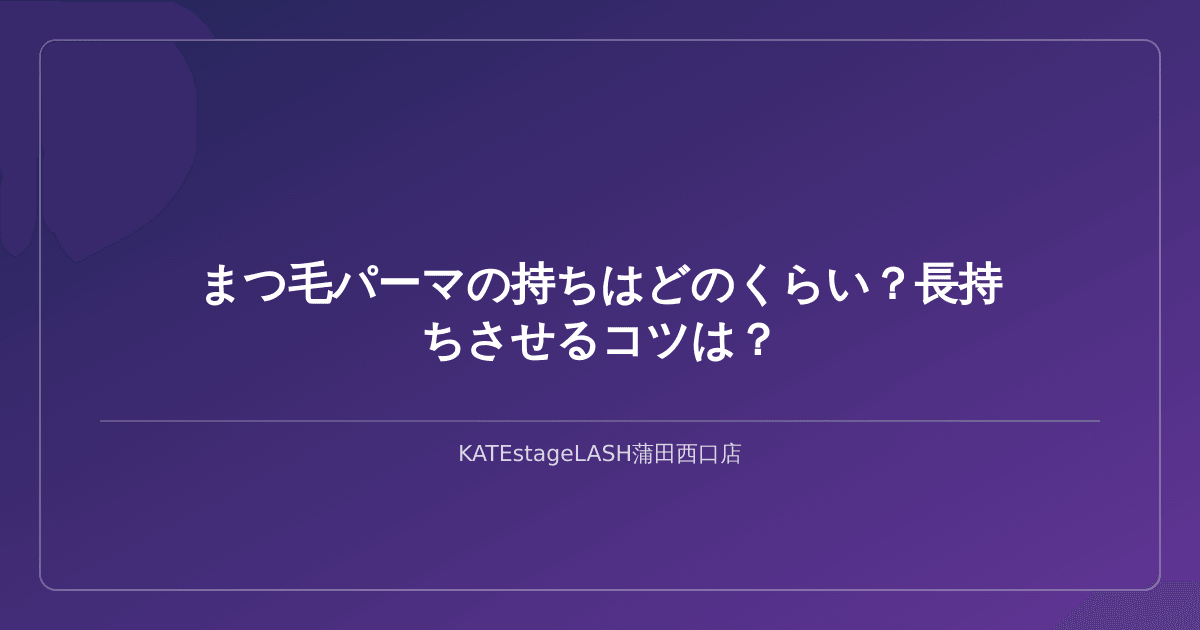
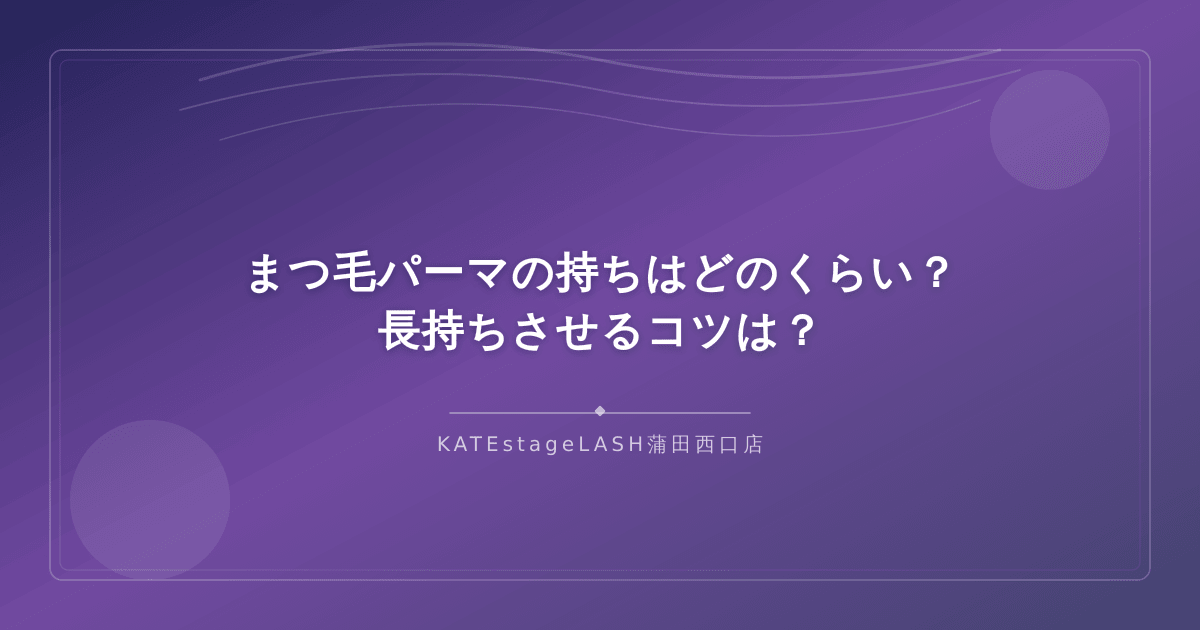
fix: 投稿者をケイトステージラッシュに設定・施術者個人名を削除・画像デザイン改善
- 記事から田中への言及を全て削除（施術者の個人名を出さない）
- E-E-A-T設定をサロン名義に変更
- WPプラグインの投稿者を「ケイトステージラッシュ」ユーザーに自動設定
- 画像デザインをまつ毛・眉毛サロン向けに改善
  - まつ毛をイメージした曲線装飾
  - ダブルフレーム・ダイヤモンド装飾
  - テーマ別装飾パーツ

https://claude.ai/code/session_01UUtUBFTQeE7mQC8JojcE9x

diff --git a/src/image-generator.js b/src/image-generator.js
@@ -6,7 +6,6 @@ const salon = JSON.parse(fs.readFileSync(path.join(__dirname, '..', 'salon.json'
 
 function selectTheme(title) {
   const themes = salon.imageThemes;
-  // Check in priority order: specific topics first, then general
   const themeOrder = ['eyelashPerm', 'eyebrow', 'eyelashCare', 'localArea', 'beautyGeneral'];
   for (const key of themeOrder) {
     const theme = themes[key];
@@ -19,8 +18,7 @@ function selectTheme(title) {
 }
 
 function generateGradientVariation(baseFrom, baseTo, index) {
-  // Create subtle variations for each image
-  const shift = (index * 15) % 40;
+  const shift = (index * 12) % 30;
   const adjustColor = (hex, amount) => {
     const r = Math.min(255, Math.max(0, parseInt(hex.slice(1, 3), 16) + amount));
     const g = Math.min(255, Math.max(0, parseInt(hex.slice(3, 5), 16) + amount));
@@ -28,8 +26,8 @@ function generateGradientVariation(baseFrom, baseTo, index) {
     return `#${r.toString(16).padStart(2, '0')}${g.toString(16).padStart(2, '0')}${b.toString(16).padStart(2, '0')}`;
   };
   return {
-    from: adjustColor(baseFrom, shift - 20),
-    to: adjustColor(baseTo, 20 - shift)
+    from: adjustColor(baseFrom, shift - 15),
+    to: adjustColor(baseTo, 15 - shift)
   };
 }
 
@@ -47,39 +45,107 @@ function wrapText(text, maxCharsPerLine) {
   return lines;
 }
 
+// まつ毛の装飾SVGパーツ
+function getLashDecoration(themeKey) {
+  if (themeKey === 'eyelashPerm' || themeKey === 'eyelashCare') {
+    // まつ毛をイメージした曲線装飾（上部）
+    return `
+    <g opacity="0.15">
+      <path d="M200,80 Q400,20 600,60 Q800,100 1000,50" fill="none" stroke="white" stroke-width="3" stroke-linecap="round"/>
+      <path d="M180,110 Q400,50 600,90 Q800,130 1020,70" fill="none" stroke="white" stroke-width="2" stroke-linecap="round"/>
+      <path d="M220,140 Q420,80 620,120 Q820,160 980,100" fill="none" stroke="white" stroke-width="1.5" stroke-linecap="round"/>
+    </g>
+    <g opacity="0.08">
+      <circle cx="150" cy="500" r="80" fill="white"/>
+      <circle cx="1050" cy="130" r="60" fill="white"/>
+    </g>`;
+  }
+  if (themeKey === 'eyebrow') {
+    // アーチ型の装飾（眉毛をイメージ）
+    return `
+    <g opacity="0.12">
+      <path d="M250,100 Q600,30 950,100" fill="none" stroke="white" stroke-width="4" stroke-linecap="round"/>
+      <path d="M280,130 Q600,65 920,130" fill="none" stroke="white" stroke-width="2.5" stroke-linecap="round"/>
+    </g>
+    <g opacity="0.08">
+      <circle cx="100" cy="530" r="70" fill="white"/>
+      <circle cx="1100" cy="100" r="50" fill="white"/>
+    </g>`;
+  }
+  // デフォルト: エレガントな円形装飾
+  return `
+    <g opacity="0.08">
+      <circle cx="100" cy="100" r="120" fill="white"/>
+      <circle cx="1100" cy="530" r="100" fill="white"/>
+      <circle cx="1050" cy="80" r="40" fill="white"/>
+    </g>`;
+}
+
+function escapeXml(text) {
+  return text
+    .replace(/&/g, '&amp;')
+    .replace(/</g, '&lt;')
+    .replace(/>/g, '&gt;')
+    .replace(/"/g, '&quot;')
+    .replace(/'/g, '&apos;');
+}
+
 async function generateImage(headingText, articleTitle, index, outputDir) {
   const width = 1200;
   const height = 630;
   const theme = selectTheme(articleTitle);
   const colors = generateGradientVariation(theme.gradient.from, theme.gradient.to, index);
 
-  // Wrap heading text for display
-  const lines = wrapText(headingText, 18);
-  const lineHeight = 56;
+  const lines = wrapText(headingText, 16);
+  const lineHeight = 58;
   const totalTextHeight = lines.length * lineHeight;
-  const startY = (height - totalTextHeight) / 2 - 20;
+  const startY = (height - totalTextHeight) / 2 - 30;
 
-  // Build SVG text elements
   const textElements = lines.map((line, i) => {
     const y = startY + 60 + i * lineHeight;
-    return `<text x="600" y="${y}" font-family="'Hiragino Sans', 'Yu Gothic', 'Noto Sans JP', sans-serif" font-size="44" font-weight="bold" fill="${theme.textColor}" text-anchor="middle" dominant-baseline="middle">${escapeXml(line)}</text>`;
+    return `<text x="600" y="${y}" font-family="'Hiragino Sans', 'Yu Gothic', 'Noto Sans JP', sans-serif" font-size="42" font-weight="bold" fill="white" text-anchor="middle" dominant-baseline="middle" letter-spacing="2">${escapeXml(line)}</text>`;
   }).join('\n    ');
 
-  // Salon name at bottom
+  // テーマに合わせた装飾
+  const decoration = getLashDecoration(theme.key);
+
   const salonNameText = salon.name;
 
   const svg = `<svg width="${width}" height="${height}" xmlns="http://www.w3.org/2000/svg">
   <defs>
-    <linearGradient id="bg" x1="0%" y1="0%" x2="100%" y2="100%">
+    <linearGradient id="bg${index}" x1="0%" y1="0%" x2="100%" y2="100%">
       <stop offset="0%" style="stop-color:${colors.from};stop-opacity:1" />
-      <stop offset="100%" style="stop-color:${colors.to};stop-opacity:1" />
+      <stop offset="50%" style="stop-color:${colors.to};stop-opacity:0.9" />
+      <stop offset="100%" style="stop-color:${colors.from};stop-opacity:0.85" />
     </linearGradient>
+    <filter id="shadow${index}">
+      <feDropShadow dx="0" dy="2" stdDeviation="4" flood-opacity="0.3"/>
+    </filter>
   </defs>
-  <rect width="${width}" height="${height}" fill="url(#bg)" />
-  <rect x="40" y="40" width="${width - 80}" height="${height - 80}" rx="16" ry="16" fill="none" stroke="rgba(255,255,255,0.3)" stroke-width="2" />
-  <line x1="100" y1="${startY + totalTextHeight + 70}" x2="${width - 100}" y2="${startY + totalTextHeight + 70}" stroke="rgba(255,255,255,0.4)" stroke-width="1" />
-  ${textElements}
-  <text x="600" y="${startY + totalTextHeight + 110}" font-family="'Hiragino Sans', 'Yu Gothic', 'Noto Sans JP', sans-serif" font-size="22" fill="rgba(255,255,255,0.8)" text-anchor="middle">${escapeXml(salonNameText)}</text>
+
+  <!-- 背景グラデーション -->
+  <rect width="${width}" height="${height}" fill="url(#bg${index})" />
+
+  <!-- テーマ別装飾 -->
+  ${decoration}
+
+  <!-- 上品なフレーム -->
+  <rect x="50" y="50" width="${width - 100}" height="${height - 100}" rx="12" ry="12" fill="none" stroke="rgba(255,255,255,0.25)" stroke-width="1.5" />
+  <rect x="60" y="60" width="${width - 120}" height="${height - 120}" rx="8" ry="8" fill="none" stroke="rgba(255,255,255,0.12)" stroke-width="1" />
+
+  <!-- 見出しテキスト -->
+  <g filter="url(#shadow${index})">
+    ${textElements}
+  </g>
+
+  <!-- 区切り線 -->
+  <line x1="450" y1="${startY + totalTextHeight + 70}" x2="750" y2="${startY + totalTextHeight + 70}" stroke="rgba(255,255,255,0.5)" stroke-width="1.5" stroke-linecap="round" />
+
+  <!-- 小さなダイヤモンド装飾 -->
+  <rect x="596" y="${startY + totalTextHeight + 64}" width="8" height="8" rx="1" fill="rgba(255,255,255,0.6)" transform="rotate(45, 600, ${startY + totalTextHeight + 68})" />
+
+  <!-- サロン名 -->
+  <text x="600" y="${startY + totalTextHeight + 108}" font-family="'Hiragino Sans', 'Yu Gothic', 'Noto Sans JP', sans-serif" font-size="20" fill="rgba(255,255,255,0.7)" text-anchor="middle" letter-spacing="4">${escapeXml(salonNameText)}</text>
 </svg>`;
 
   const filename = `image-${index}.png`;
@@ -93,17 +159,7 @@ async function generateImage(headingText, articleTitle, index, outputDir) {
   return { filename, outputPath };
 }
 
-function escapeXml(text) {
-  return text
-    .replace(/&/g, '&amp;')
-    .replace(/</g, '&lt;')
-    .replace(/>/g, '&gt;')
-    .replace(/"/g, '&quot;')
-    .replace(/'/g, '&apos;');
-}
-
 async function generateArticleImages(htmlContent, articleTitle, outputDir) {
-  // Extract H2 headings from HTML
   const h2Regex = /<h2[^>]*>(.*?)<\/h2>/gi;
   const headings = [];
   let match;

diff --git a/output/matsuge-perm-kamata.html b/output/matsuge-perm-kamata.html
@@ -1,21 +1,21 @@
 <!-- TITLE: 蒲田でまつ毛パーマするならどこがいい？失敗しないサロン選びのポイント -->
-<!-- META: 蒲田駅周辺でまつ毛パーマができるサロンをお探しの方へ。アイリスト歴9年のプロが、サロン選びのポイントや施術の種類、持ちを良くするコツを解説します。 -->
+<!-- META: 蒲田駅周辺でまつ毛パーマができるサロンをお探しの方へ。専門サロンがサロン選びのポイントや施術の種類、持ちを良くするコツを解説します。 -->
 <!-- KEYWORD: まつ毛パーマ 蒲田 -->
 <!-- CATEGORY: 26 -->
 <!-- SLUG: matsuge-perm-kamata -->
 
-<p>「蒲田でまつ毛パーマをかけたいけど、どのサロンがいいのかわからない…」そんなお悩みをお持ちではありませんか？蒲田エリアには多くの美容サロンがありますが、まつ毛パーマの仕上がりは技術者の腕に大きく左右されます。KATEstageLASH蒲田西口店の広報担当・田中（アイリスト歴9年）が、失敗しないサロン選びのポイントから施術の種類、持ちを良くするコツまで詳しくお伝えします。</p>
+<p>「蒲田でまつ毛パーマをかけたいけど、どのサロンがいいのかわからない…」そんなお悩みをお持ちではありませんか？蒲田エリアには多くの美容サロンがありますが、まつ毛パーマの仕上がりは技術者の腕に大きく左右されます。今回は、失敗しないサロン選びのポイントから施術の種類、持ちを良くするコツまで詳しくお伝えします。</p>
 
 <h2>蒲田でまつ毛パーマが人気の理由とは？</h2>
 <img src="%%IMAGE_1%%" alt="蒲田エリアでまつ毛パーマが人気を集めている理由を解説" style="max-width: 100%; height: auto;">
 
 <h3>忙しい女性にまつ毛パーマが選ばれるワケ</h3>
-<p>蒲田は都心へのアクセスが良く、通勤で忙しい女性が多いエリアです。毎朝のメイクにかける時間を少しでも短縮したいという声は、当サロンでもよくお聞きします。まつ毛パーマなら、朝起きた瞬間からまつ毛が上向きカールしているため、ビューラーで挟む手間が不要になります。</p>
+<p>蒲田は都心へのアクセスが良く、通勤で忙しい女性が多いエリアです。毎朝のメイクにかける時間を少しでも短縮したいという声は、サロンでもよくお聞きします。まつ毛パーマなら、朝起きた瞬間からまつ毛が上向きカールしているため、ビューラーで挟む手間が不要になります。</p>
 
 <p>近年は「自まつ毛を活かすナチュラルメイク」がトレンドとなり、マスカラだけで仕上げたいという方にもまつ毛パーマは好相性です。蒲田駅周辺で働く方や、大田区にお住まいの方を中心に、リピーターが年々増えています。</p>
 
 <h3>ビューラーいらずで毎朝のメイク時短に</h3>
-<p>ビューラーを毎日使い続けると、まつ毛に負担がかかり、切れ毛や抜け毛の原因になることがあります。まつ毛パーマなら一度の施術でカールが持続するため、まつ毛への日常的なダメージを軽減できます。アイリスト歴9年の田中も「ビューラーのダメージに悩んでいたお客様が、まつ毛パーマに変えてからまつ毛の状態が改善したケースを多く見てきました」と話しています。</p>
+<p>ビューラーを毎日使い続けると、まつ毛に負担がかかり、切れ毛や抜け毛の原因になることがあります。まつ毛パーマなら一度の施術でカールが持続するため、まつ毛への日常的なダメージを軽減できます。当サロンでも「ビューラーのダメージに悩んでいたお客様が、まつ毛パーマに変えてからまつ毛の状態が改善した」というケースを多く見てきました。</p>
 
 <h2>まつ毛パーマの種類と選び方は？</h2>
 <img src="%%IMAGE_2%%" alt="まつ毛パーマの種類と自分に合った選び方のポイント" style="max-width: 100%; height: auto;">
@@ -28,7 +28,7 @@
 <p><strong>パリジェンヌラッシュリフト</strong>は、まつ毛を根元から80度立ち上げる新しい技法です。まつ毛全体にカールをつけるのではなく、根元からしっかり立ち上げることで、まつ毛が長く見える効果が期待できます。自然な仕上がりを好む方に特に人気です。</p>
 
 <h3>自分のまつ毛に合ったカールの選び方</h3>
-<p>まつ毛パーマの仕上がりは、自まつ毛の長さ・太さ・硬さによって大きく変わります。上場企業でアイリスト講師を務めた経験のある田中は、「カウンセリングでまつ毛の状態をしっかり見極めることが、理想の仕上がりへの第一歩です」とアドバイスしています。</p>
+<p>まつ毛パーマの仕上がりは、自まつ毛の長さ・太さ・硬さによって大きく変わります。カウンセリングでまつ毛の状態をしっかり見極めることが、理想の仕上がりへの第一歩です。</p>
 
 <ul>
 <li><strong>まつ毛が短めの方</strong>: ロッド式パーマで小さめのロッドを使い、しっかりカールをつけると目元がぱっちり見えます</li>
@@ -89,10 +89,10 @@
 <h2>KATEstageLASH蒲田西口店のまつ毛パーマの特徴</h2>
 <img src="%%IMAGE_6%%" alt="KATEstageLASH蒲田西口店のまつ毛パーマの特徴とアクセス情報" style="max-width: 100%; height: auto;">
 
-<h3>アイリスト歴9年のプロが担当</h3>
-<p>KATEstageLASH蒲田西口店では、アイリスト歴9年の田中が施術を担当しています。田中は上場企業でアイリスト専属講師を務めた経験もあり、技術力には定評があります。</p>
+<h3>まつ毛パーマ専門サロンならではの安心感</h3>
+<p>KATEstageLASH蒲田西口店は、アイブロウ・まつ毛専門サロンです。パリジェンヌラッシュリフトをはじめ、お客様一人ひとりのまつ毛の状態や希望のデザインに合わせた施術プランをご提案しています。</p>
 
-<p>パリジェンヌラッシュリフトをはじめ、お客様一人ひとりのまつ毛の状態や希望のデザインに合わせた施術プランをご提案します。「初めてまつ毛パーマをかける」「以前のサロンで満足できなかった」という方も、丁寧なカウンセリングで不安を解消してから施術に入りますのでご安心ください。</p>
+<p>「初めてまつ毛パーマをかける」「以前のサロンで満足できなかった」という方も、丁寧なカウンセリングで不安を解消してから施術に入りますのでご安心ください。</p>
 
 <h3>蒲田駅西口から徒歩すぐのアクセス</h3>
 <p>当サロンは蒲田駅西口から徒歩圏内にあり、お仕事帰りやお買い物のついでに気軽にお立ち寄りいただけます。</p>

diff --git a/wp-plugin/kateblog-importer.php b/wp-plugin/kateblog-importer.php
@@ -292,11 +292,29 @@ function kateblog_import_article($download_url, $publish_date = '', $publish_tim
         }
     }
 
+    // 投稿者を「ケイトステージラッシュ」に設定
+    $author_id = 0;
+    $author_user = get_user_by('login', 'katestage');
+    if (!$author_user) {
+        // display_nameで検索
+        $users = get_users(array('search' => '*ケイトステージラッシュ*', 'search_columns' => array('display_name')));
+        if (!empty($users)) {
+            $author_id = $users[0]->ID;
+        }
+    } else {
+        $author_id = $author_user->ID;
+    }
+    // 見つからなければ現在のユーザー
+    if (!$author_id) {
+        $author_id = get_current_user_id();
+    }
+
     // 投稿作成
     $post_data = array(
         'post_title'   => $meta['title'],
         'post_content' => $content,
         'post_status'  => 'draft',
+        'post_author'  => $author_id,
         'post_name'    => isset($meta['slug']) ? $meta['slug'] : '',
         'post_category' => isset($meta['category']) ? array($meta['category']) : array(27),
     );

diff --git a/config/shiji.md b/config/shiji.md
@@ -13,10 +13,10 @@
 - 漢字・ひらがなのバランス: 漢字率30〜40%を目安
 
 ## E-E-A-T対応
-- 田中（広報担当、アイリスト歴9年、上場企業の講師経験）の知見を自然に記事へ組み込む
-- 「当サロンの田中は〜」「アイリスト歴9年の田中によると〜」等
-- 1記事に2〜3箇所、経験に基づくコメントやアドバイスを挿入
-- 記事末尾に著者紹介を含める
+- サロンとしての豊富な施術実績に基づいた情報を発信
+- 「当サロンでは〜」「KATEstageLASHでは〜」等、サロン名義で記載
+- 施術者の個人名は記載しない（誰が施術するか等は書かない）
+- 1記事に2〜3箇所、サロンの経験に基づくアドバイスを挿入
 
 ## SEO構成ルール
 - H1: 記事タイトル（32〜40文字、メインKW含む）
